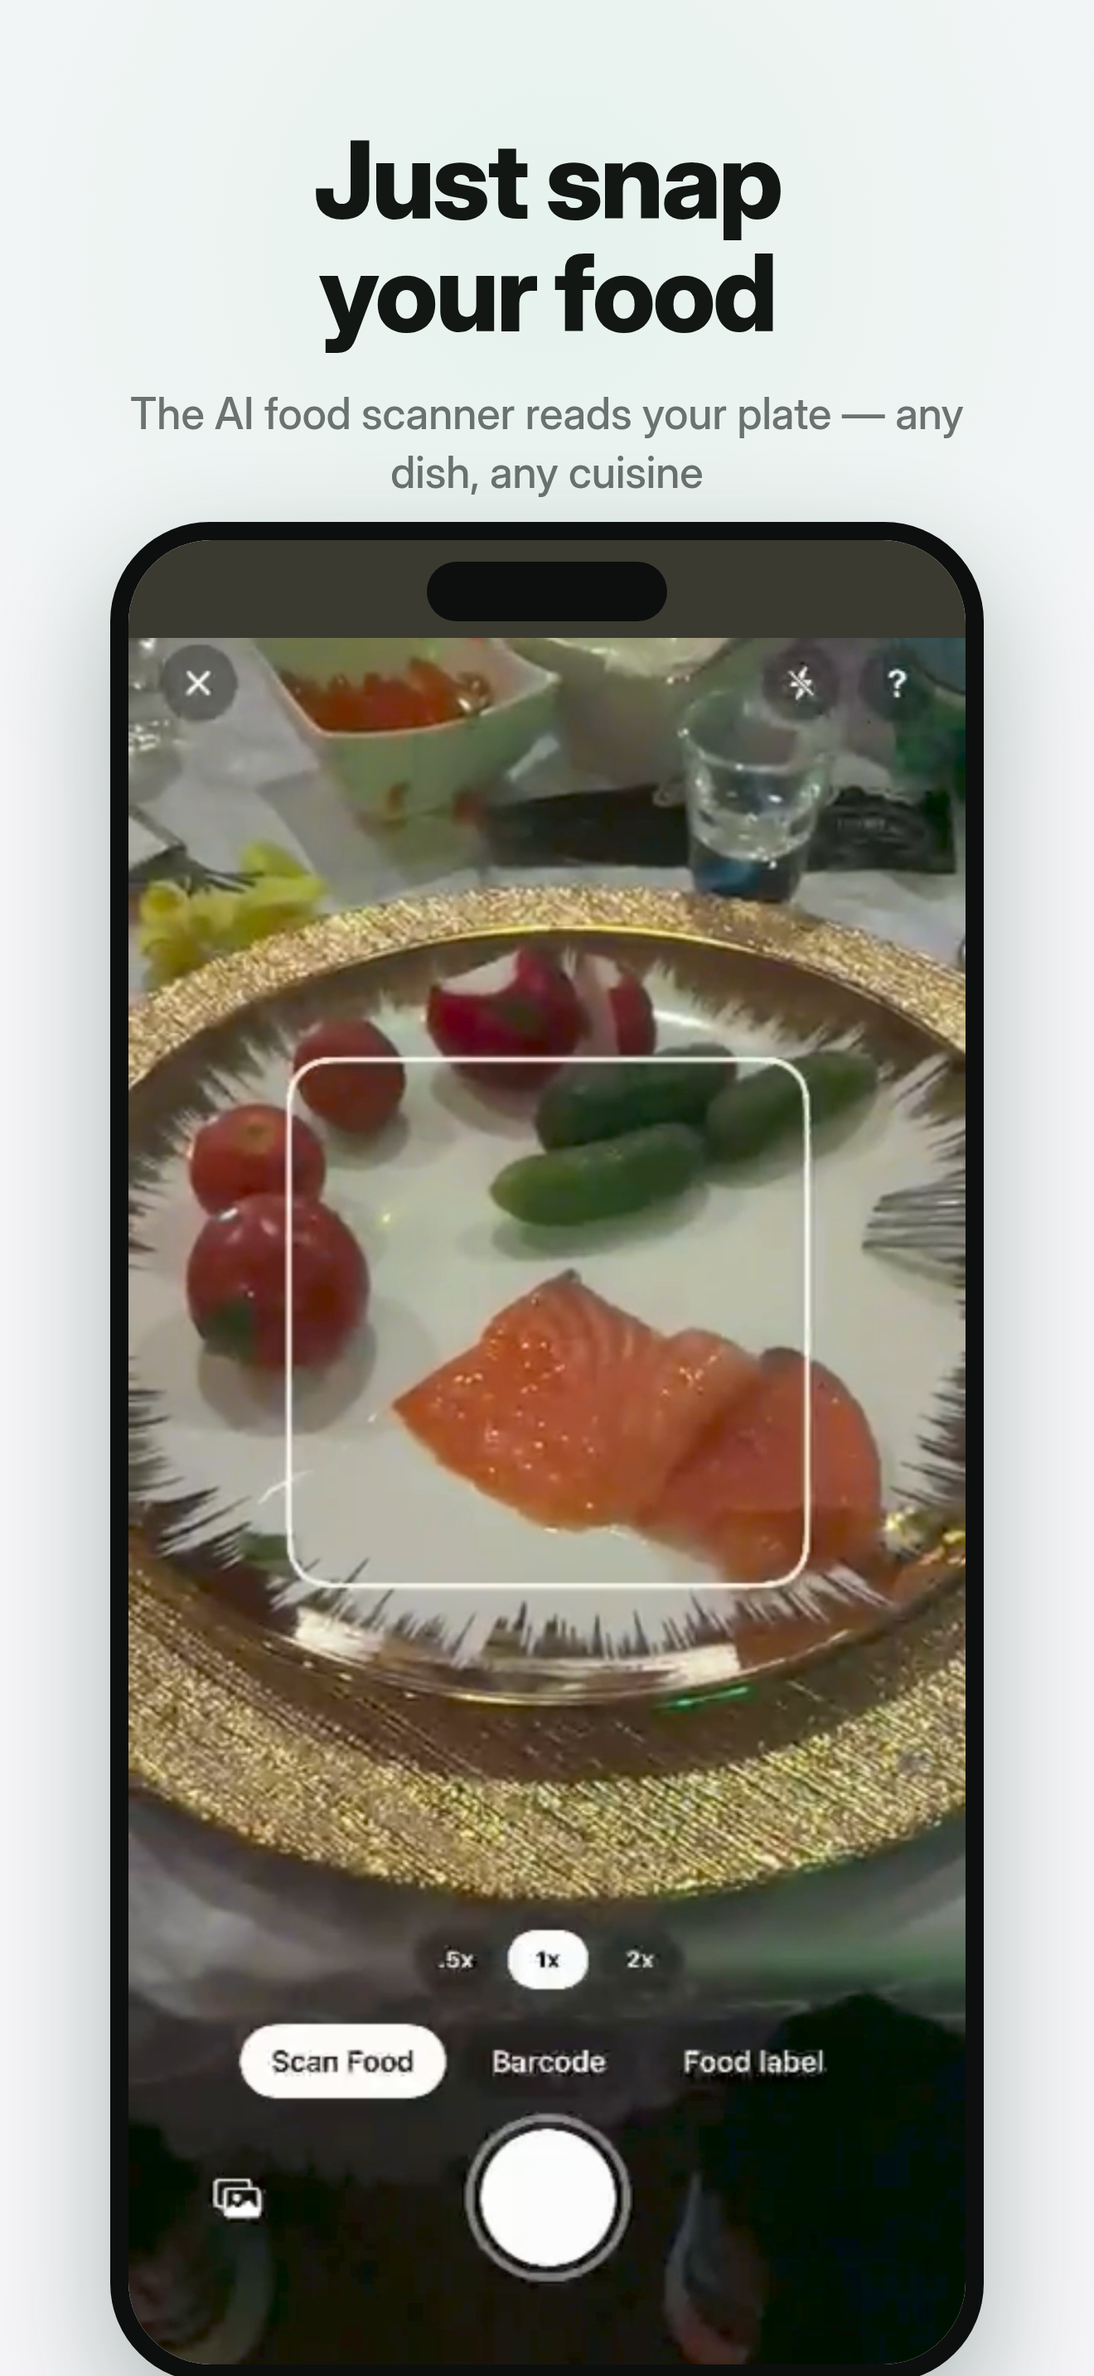
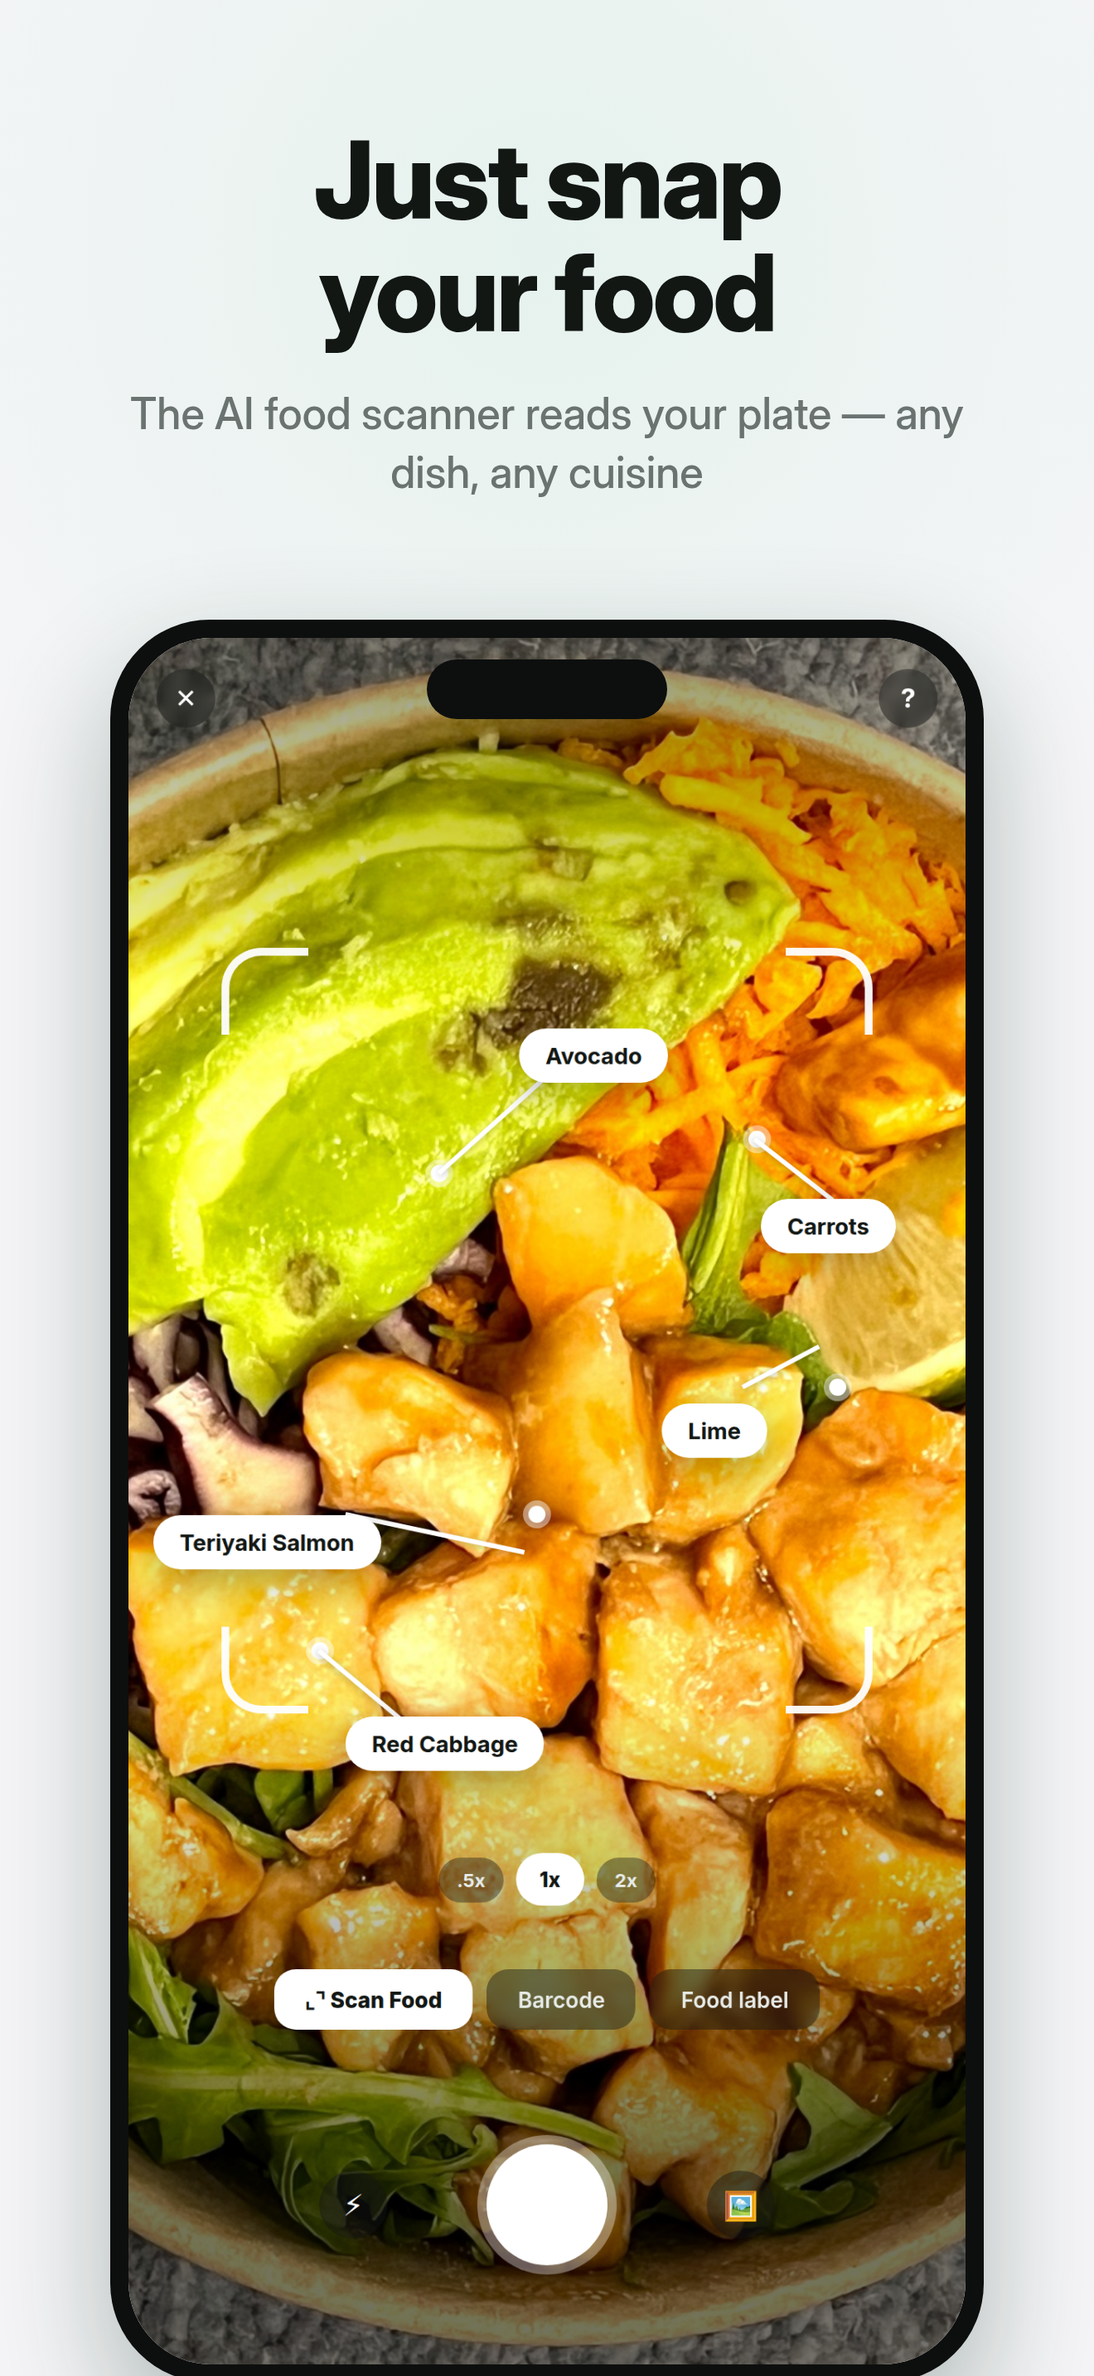
Redo scan, result, and barcode screenshots per feedback
- Bright CC0 food photography (salmon poke bowl, brightness/saturation
  tuned) instead of dim video frames
- Cal AI-style AI ingredient callout pills with pointer lines over the
  food photo (Avocado, Teriyaki Salmon, Carrots, Red Cabbage, Lime)
- Result panel: photo header + floating calories card + per-ingredient
  gram rows, Fix with AI
- Barcode panel: bright MyNetDiary-style product hero with scan beam,
  'Found in 1 second' pill, Add to Diary card

Claude-Session: https://claude.ai/code/session_01U8zB96jntubMM3RPL6Mws6

diff --git a/appstore/screens2.js b/appstore/screens2.js
@@ -1,0 +1,218 @@
+// Scan / result / bright-barcode screens (540x1114 @2x = 1080x2228)
+const { chromium } = require('playwright-core');
+const fs = require('fs');
+const path = require('path');
+const S = __dirname;
+
+const CSS = `
+@font-face { font-family:'Inter'; src:url('file://${S}/Inter.ttf'); font-weight:100 900; }
+*{margin:0;padding:0;box-sizing:border-box}
+body{width:540px;height:1114px;font-family:'Inter',sans-serif;background:#F5F5F7;color:#121714;overflow:hidden;position:relative}
+.row{display:flex;align-items:center;justify-content:space-between}
+.greenbtn{background:#19CC6B;color:#fff;border-radius:16px;height:52px;display:flex;align-items:center;justify-content:center;font-size:16px;font-weight:700}
+.callout{position:absolute;background:#fff;border-radius:999px;padding:9px 17px;font-size:14.5px;font-weight:700;
+         box-shadow:0 8px 26px rgba(0,0,0,.30);white-space:nowrap;z-index:3}
+.dot{position:absolute;width:11px;height:11px;border-radius:50%;background:#fff;box-shadow:0 0 0 3.5px rgba(255,255,255,.45);z-index:2}
+.line{position:absolute;background:#fff;height:2.5px;transform-origin:0 50%;z-index:2;box-shadow:0 1px 5px rgba(0,0,0,.25)}
+.chip{border-radius:12px;padding:8px 0;font-size:13px;font-weight:700;flex:1;text-align:center}
+`;
+
+const SCREENS = {
+
+// ============ SCAN — bright photo + AI callouts ============
+scan: `
+<div style="position:absolute;inset:0;background:url('file://${S}/assets/food_scan.jpg') center/cover"></div>
+<div style="position:absolute;inset:0;background:linear-gradient(180deg,rgba(0,0,0,.42),transparent 20%,transparent 62%,rgba(0,0,0,.55) 88%)"></div>
+
+<div style="position:absolute;top:20px;left:18px;width:38px;height:38px;border-radius:50%;background:rgba(20,22,20,.45);color:#fff;display:flex;align-items:center;justify-content:center;font-size:17px;backdrop-filter:blur(4px)">✕</div>
+<div style="position:absolute;top:20px;right:18px;width:38px;height:38px;border-radius:50%;background:rgba(20,22,20,.45);color:#fff;display:flex;align-items:center;justify-content:center;font-size:17px;font-weight:700;backdrop-filter:blur(4px)">?</div>
+<div style="position:absolute;top:28px;left:0;right:0;text-align:center;color:#fff;font-weight:800;font-size:17px;text-shadow:0 1px 8px rgba(0,0,0,.5)">🥑 Cal Cal</div>
+
+<!-- scan frame corners -->
+<div style="position:absolute;top:200px;left:60px;right:60px;bottom:420px">
+  <div style="position:absolute;top:0;left:0;width:56px;height:56px;border-top:5px solid #fff;border-left:5px solid #fff;border-top-left-radius:26px;opacity:.95"></div>
+  <div style="position:absolute;top:0;right:0;width:56px;height:56px;border-top:5px solid #fff;border-right:5px solid #fff;border-top-right-radius:26px;opacity:.95"></div>
+  <div style="position:absolute;bottom:0;left:0;width:56px;height:56px;border-bottom:5px solid #fff;border-left:5px solid #fff;border-bottom-left-radius:26px;opacity:.95"></div>
+  <div style="position:absolute;bottom:0;right:0;width:56px;height:56px;border-bottom:5px solid #fff;border-right:5px solid #fff;border-bottom-right-radius:26px;opacity:.95"></div>
+</div>
+
+<!-- AI ingredient callouts (Cal AI style) -->
+<div class="dot" style="top:340px;left:195px"></div>
+<div class="line" style="top:344px;left:200px;width:92px;transform:rotate(-42deg)"></div>
+<div class="callout" style="top:252px;left:252px">Avocado</div>
+
+<div class="dot" style="top:560px;left:258px"></div>
+<div class="line" style="top:564px;left:140px;width:118px;transform:rotate(12deg)"></div>
+<div class="callout" style="top:566px;left:16px">Teriyaki Salmon</div>
+
+<div class="dot" style="top:318px;left:400px"></div>
+<div class="line" style="top:322px;left:404px;width:64px;transform:rotate(38deg)"></div>
+<div class="callout" style="top:362px;left:408px">Carrots</div>
+
+<div class="dot" style="top:648px;left:118px"></div>
+<div class="line" style="top:652px;left:123px;width:74px;transform:rotate(40deg)"></div>
+<div class="callout" style="top:696px;left:140px">Red Cabbage</div>
+
+<div class="dot" style="top:478px;left:452px"></div>
+<div class="line" style="top:482px;left:396px;width:56px;transform:rotate(-28deg)"></div>
+<div class="callout" style="top:494px;left:344px">Lime</div>
+
+<!-- zoom chips -->
+<div style="position:absolute;bottom:296px;left:0;right:0;display:flex;justify-content:center;gap:8px;align-items:center">
+  <div style="color:#e8ece9;font-size:12px;font-weight:700;background:rgba(20,22,20,.4);border-radius:999px;padding:7px 12px">.5x</div>
+  <div style="background:#fff;color:#121714;font-size:13px;font-weight:800;border-radius:999px;padding:9px 15px">1x</div>
+  <div style="color:#e8ece9;font-size:12px;font-weight:700;background:rgba(20,22,20,.4);border-radius:999px;padding:7px 12px">2x</div>
+</div>
+
+<!-- mode toggles -->
+<div style="position:absolute;bottom:216px;left:0;right:0;display:flex;justify-content:center;gap:9px">
+  <div style="background:#fff;color:#121714;font-size:14px;font-weight:800;padding:11px 20px;border-radius:14px;display:flex;gap:7px;align-items:center">⌞⌝ Scan Food</div>
+  <div style="background:rgba(20,22,20,.45);color:#e8ece9;font-size:14px;font-weight:600;padding:11px 20px;border-radius:14px;backdrop-filter:blur(4px)">Barcode</div>
+  <div style="background:rgba(20,22,20,.45);color:#e8ece9;font-size:14px;font-weight:600;padding:11px 20px;border-radius:14px;backdrop-filter:blur(4px)">Food label</div>
+</div>
+
+<!-- shutter row -->
+<div style="position:absolute;bottom:64px;left:0;right:0;display:flex;justify-content:center;align-items:center;gap:64px">
+  <div style="width:44px;height:44px;border-radius:50%;background:rgba(20,22,20,.45);color:#fff;display:flex;align-items:center;justify-content:center;font-size:19px">⚡</div>
+  <div style="width:78px;height:78px;border-radius:50%;background:#fff;box-shadow:0 0 0 6px rgba(255,255,255,.35)"></div>
+  <div style="width:44px;height:44px;border-radius:50%;background:rgba(20,22,20,.45);color:#fff;display:flex;align-items:center;justify-content:center;font-size:18px">🖼</div>
+</div>`,
+
+// ============ RESULT — photo top + floating calories card ============
+result: `
+<div style="position:absolute;top:0;left:0;right:0;height:400px;background:url('file://${S}/assets/food_top.jpg') center/cover"></div>
+<div style="position:absolute;top:0;left:0;right:0;height:110px;background:linear-gradient(rgba(0,0,0,.38),transparent)"></div>
+<div style="position:absolute;top:20px;left:18px;width:38px;height:38px;border-radius:50%;background:rgba(20,22,20,.45);color:#fff;display:flex;align-items:center;justify-content:center;font-size:17px">←</div>
+<div style="position:absolute;top:28px;left:0;right:0;text-align:center;color:#fff;font-weight:800;font-size:17px;text-shadow:0 1px 8px rgba(0,0,0,.5)">Nutrition</div>
+<div style="position:absolute;top:20px;right:18px;width:38px;height:38px;border-radius:50%;background:rgba(20,22,20,.45);color:#fff;display:flex;align-items:center;justify-content:center;font-size:16px">⋯</div>
+
+<div style="position:absolute;top:368px;left:0;right:0;bottom:0;background:#F5F5F7;border-radius:34px 34px 0 0"></div>
+<div style="position:absolute;top:392px;left:20px;right:20px">
+  <div style="background:#fff;border:1px solid #E9ECEE;border-radius:22px;padding:16px;box-shadow:0 6px 18px rgba(0,0,0,.06)">
+    <div style="font-size:11.5px;font-weight:700;color:#858C8A;background:#F5F5F7;display:inline-block;padding:5px 10px;border-radius:8px">🔖 12:40 PM · Lunch</div>
+    <div class="row" style="margin-top:10px">
+      <div style="font-size:21px;font-weight:800;letter-spacing:-.01em">Teriyaki Salmon Bowl</div>
+      <div style="display:flex;gap:12px;align-items:center;border:1px solid #E5E8EA;border-radius:999px;padding:7px 14px;font-size:15px;font-weight:700"><span style="color:#858C8A">−</span> 1 <span style="color:#858C8A">+</span></div>
+    </div>
+  </div>
+
+  <div style="background:#fff;border:1px solid #E9ECEE;border-radius:22px;padding:16px;margin-top:12px;display:flex;align-items:center;gap:14px;box-shadow:0 14px 34px rgba(0,0,0,.10)">
+    <div style="width:52px;height:52px;border-radius:16px;background:#EAF9F0;display:flex;align-items:center;justify-content:center;font-size:24px">🔥</div>
+    <div><div style="font-size:12.5px;font-weight:600;color:#858C8A">Calories</div>
+    <div style="font-size:34px;font-weight:800;letter-spacing:-.02em">512</div></div>
+    <div style="margin-left:auto;background:rgba(25,204,107,.12);color:#0D9E52;font-size:12.5px;font-weight:800;padding:8px 13px;border-radius:999px">96% confident</div>
+  </div>
+
+  <div style="display:flex;gap:9px;margin-top:12px">
+    <div class="chip" style="background:#FDF1F2;color:#F2596B">🍗 Protein 38g</div>
+    <div class="chip" style="background:#FEF6EA;color:#D98A18">🌾 Carbs 32g</div>
+    <div class="chip" style="background:#EEF4FE;color:#4D8FF2">💧 Fat 26g</div>
+  </div>
+
+  <div style="background:#fff;border:1px solid #E9ECEE;border-radius:22px;padding:16px;margin-top:12px">
+    <div class="row"><div style="font-size:15px;font-weight:800">Ingredients</div>
+      <div style="color:#0D9E52;font-size:13px;font-weight:800">+ Add More</div></div>
+    ${[
+      ['Teriyaki Salmon','280 cal','140 g'],
+      ['Avocado','120 cal','75 g'],
+      ['Arugula & Greens','18 cal','45 g'],
+      ['Shredded Carrots','16 cal','35 g'],
+      ['Red Cabbage','12 cal','30 g'],
+      ['Teriyaki Glaze','66 cal','2 tbsp'],
+    ].map(r=>`
+    <div class="row" style="padding:10px 0;border-bottom:1px solid #F0F2F3">
+      <div><div style="font-size:14px;font-weight:700">${r[0]}</div><div style="font-size:11.5px;color:#858C8A;font-weight:600">${r[1]}</div></div>
+      <div style="background:#EAF9F0;color:#0D9E52;font-size:12px;font-weight:800;padding:6px 11px;border-radius:999px">${r[2]}</div>
+    </div>`).join('')}
+  </div>
+
+  <div style="display:flex;gap:10px;margin-top:14px">
+    <div style="flex:1;background:#EAF9F0;color:#0D9E52;border-radius:16px;height:52px;display:flex;align-items:center;justify-content:center;font-size:15px;font-weight:800">✨ Fix with AI</div>
+    <div class="greenbtn" style="flex:1.4">Log This Meal</div>
+  </div>
+</div>`,
+
+// ============ BARCODE — bright, MyNetDiary-style ============
+barcode2: `
+<div style="position:absolute;inset:0;background:
+  radial-gradient(140% 90% at 50% 10%, #efeeea, #dcdad4 60%, #cfccc5);"></div>
+<div style="position:absolute;inset:0;opacity:.35;background:
+  repeating-radial-gradient(circle at 30% 20%, transparent 0 12px, rgba(120,115,105,.05) 12px 13px)"></div>
+
+<div style="position:absolute;top:20px;left:18px;width:38px;height:38px;border-radius:50%;background:rgba(20,22,20,.35);color:#fff;display:flex;align-items:center;justify-content:center;font-size:17px">✕</div>
+<div style="position:absolute;top:28px;left:0;right:0;text-align:center;color:#3a3d3a;font-weight:800;font-size:17px">Log lunch ▾</div>
+
+<!-- scan corners -->
+<div style="position:absolute;top:130px;left:52px;right:52px;height:470px">
+  <div style="position:absolute;top:0;left:0;width:62px;height:62px;border-top:6px solid #fff;border-left:6px solid #fff;border-top-left-radius:28px;filter:drop-shadow(0 3px 8px rgba(0,0,0,.18))"></div>
+  <div style="position:absolute;top:0;right:0;width:62px;height:62px;border-top:6px solid #fff;border-right:6px solid #fff;border-top-right-radius:28px;filter:drop-shadow(0 3px 8px rgba(0,0,0,.18))"></div>
+  <div style="position:absolute;bottom:0;left:0;width:62px;height:62px;border-bottom:6px solid #fff;border-left:6px solid #fff;border-bottom-left-radius:28px;filter:drop-shadow(0 3px 8px rgba(0,0,0,.18))"></div>
+  <div style="position:absolute;bottom:0;right:0;width:62px;height:62px;border-bottom:6px solid #fff;border-right:6px solid #fff;border-bottom-right-radius:28px;filter:drop-shadow(0 3px 8px rgba(0,0,0,.18))"></div>
+
+  <!-- protein bar -->
+  <div style="position:absolute;left:26px;right:26px;top:76px;height:320px;transform:rotate(-4deg)">
+    <div style="position:absolute;inset:0;border-radius:26px;background:
+      linear-gradient(160deg,#FFC93C 0%,#FFB020 45%,#F29A00 100%);
+      box-shadow:0 26px 60px rgba(150,100,0,.35), inset 0 3px 10px rgba(255,255,255,.55), inset 0 -6px 16px rgba(130,70,0,.25)"></div>
+    <div style="position:absolute;left:0;top:14px;bottom:14px;width:26px;background:
+      repeating-linear-gradient(180deg,#E89400 0 14px,#D07F00 14px 28px);border-radius:14px 0 0 14px;filter:brightness(.96)"></div>
+    <div style="position:absolute;right:0;top:14px;bottom:14px;width:26px;background:
+      repeating-linear-gradient(180deg,#E89400 0 14px,#D07F00 14px 28px);border-radius:0 14px 14px 0;filter:brightness(.96)"></div>
+    <div style="position:absolute;left:50%;top:24px;transform:translateX(-50%);font-size:15px;font-weight:900;letter-spacing:.14em;color:#7c4d00">PROTEIN BAR</div>
+    <div style="position:absolute;left:50%;top:48px;transform:translateX(-50%);font-size:11px;font-weight:800;letter-spacing:.2em;color:#9c6a10">VANILLA · 20G PROTEIN</div>
+    <div style="position:absolute;left:50%;top:84px;transform:translateX(-50%);width:290px;background:#fff;border-radius:14px;padding:16px 18px 10px;box-shadow:0 8px 22px rgba(120,70,0,.25)">
+      <svg viewBox="0 0 300 74" style="width:100%">
+        ${Array.from({length:46},(_,i)=>{const w=[2,4,2,6,3,2,5,2,3,4][i%10];const x=5+i*6.3;return `<rect x="${x}" y="0" width="${w*0.85}" height="56" fill="#17140e"/>`}).join('')}
+        <text x="150" y="72" font-size="14" fill="#17140e" text-anchor="middle" font-family="Inter" font-weight="700">0 41220 88472 5</text>
+      </svg>
+    </div>
+  </div>
+  <!-- scan beam -->
+  <div style="position:absolute;left:16px;right:16px;top:236px;height:4px;background:linear-gradient(90deg,transparent,#19CC6B 25%,#19CC6B 75%,transparent);box-shadow:0 0 22px 4px rgba(25,204,107,.55);border-radius:99px"></div>
+</div>
+
+<!-- popping found pill -->
+<div style="position:absolute;top:576px;left:50%;transform:translateX(-50%) rotate(-2deg);background:linear-gradient(135deg,#19CC6B,#0D9E52);color:#fff;font-size:16px;font-weight:900;letter-spacing:.03em;padding:13px 26px;border-radius:999px;box-shadow:0 16px 38px rgba(13,158,82,.45);z-index:4">✓ FOUND IN 1 SECOND</div>
+
+<!-- result card -->
+<div style="position:absolute;left:20px;right:20px;top:640px;background:#fff;border-radius:26px;padding:20px;box-shadow:0 30px 70px rgba(60,55,40,.28)">
+  <div class="row">
+    <div>
+      <div style="font-size:19px;font-weight:800">Vanilla Protein Bar</div>
+      <div style="font-size:12.5px;color:#858C8A;font-weight:600;margin-top:2px">1 bar (52 g) · verified nutrition</div>
+    </div>
+    <div style="text-align:right">
+      <div style="font-size:28px;font-weight:800;color:#0D9E52">210</div>
+      <div style="font-size:11.5px;color:#858C8A;font-weight:700">CAL</div>
+    </div>
+  </div>
+  <div style="display:flex;gap:9px;margin-top:14px">
+    <div class="chip" style="background:#FDF1F2;color:#F2596B">20g protein</div>
+    <div class="chip" style="background:#FEF6EA;color:#D98A18">18g carbs</div>
+    <div class="chip" style="background:#EEF4FE;color:#4D8FF2">7g fat</div>
+  </div>
+  <div class="greenbtn" style="margin-top:14px;height:50px">Add to Diary</div>
+</div>
+
+<!-- toggles + shutter -->
+<div style="position:absolute;bottom:118px;left:0;right:0;display:flex;justify-content:center;gap:9px">
+  <div style="background:rgba(20,22,20,.12);color:#4a4d4a;font-size:14px;font-weight:600;padding:11px 20px;border-radius:14px">Scan Food</div>
+  <div style="background:#121714;color:#fff;font-size:14px;font-weight:800;padding:11px 20px;border-radius:14px">㆔ Barcode</div>
+  <div style="background:rgba(20,22,20,.12);color:#4a4d4a;font-size:14px;font-weight:600;padding:11px 20px;border-radius:14px">Food label</div>
+</div>
+<div style="position:absolute;bottom:30px;left:50%;transform:translateX(-50%);width:70px;height:70px;border-radius:50%;background:#fff;box-shadow:0 0 0 6px rgba(255,255,255,.5), 0 10px 26px rgba(0,0,0,.18)"></div>`,
+};
+
+(async () => {
+  const browser = await chromium.launch({ executablePath: '/opt/pw-browsers/chromium' });
+  const page = await browser.newPage({ viewport: { width: 540, height: 1114 }, deviceScaleFactor: 2 });
+  for (const [name, body] of Object.entries(SCREENS)) {
+    const f = path.join(S, `screen_${name}.html`);
+    fs.writeFileSync(f, `<!DOCTYPE html><html><head><meta charset="utf-8"><style>${CSS}</style></head><body>${body}</body></html>`);
+    await page.goto('file://' + f);
+    await page.waitForTimeout(300);
+    await page.screenshot({ path: path.join(S, 'frames', `gen_${name}.png`) });
+    console.log('screen', name);
+  }
+  await browser.close();
+})();

diff --git a/appstore/generate.js b/appstore/generate.js
@@ -14,12 +14,12 @@ const PANELS = [
     pill: 'AI CALORIE TRACKER & MACRO COUNTER',
   },
   {
-    n: 2, frame: 'f_3.0.png', pad: '#3a3a30',
+    n: 2, frame: 'gen_scan.png', noPad: true,
     headline: 'Just snap<br>your food',
     sub: 'The AI food scanner reads your plate — any dish, any cuisine',
   },
   {
-    n: 3, frame: 'f_6.4.png', pad: '#EDEDEE',
+    n: 3, frame: 'gen_result.png', noPad: true,
     headline: 'Calories & macros<br>in seconds',
     sub: 'Protein, carbs & fat — fix anything with a tap',
   },
@@ -45,7 +45,7 @@ const PANELS = [
     sub: 'Answer a few questions — get your daily calories, macros & goal date',
   },
   {
-    n: 8, frame: 'gen_barcode.png', pad: '#3B4139',
+    n: 8, frame: 'gen_barcode2.png', noPad: true,
     headline: 'Instant barcode<br>scanner',
     sub: 'Millions of packaged foods — exact nutrition in one scan',
   },
@@ -98,7 +98,7 @@ function html(p) {
   </div>
   <div class="scene">
     <div class="phone"><div class="screen">
-      <div class="pad"></div>
+      ${p.noPad ? '' : '<div class=\"pad\"></div>'}
       <img src="file://${S}/frames/${p.frame}">
       <div class="notch"></div>
     </div></div>
